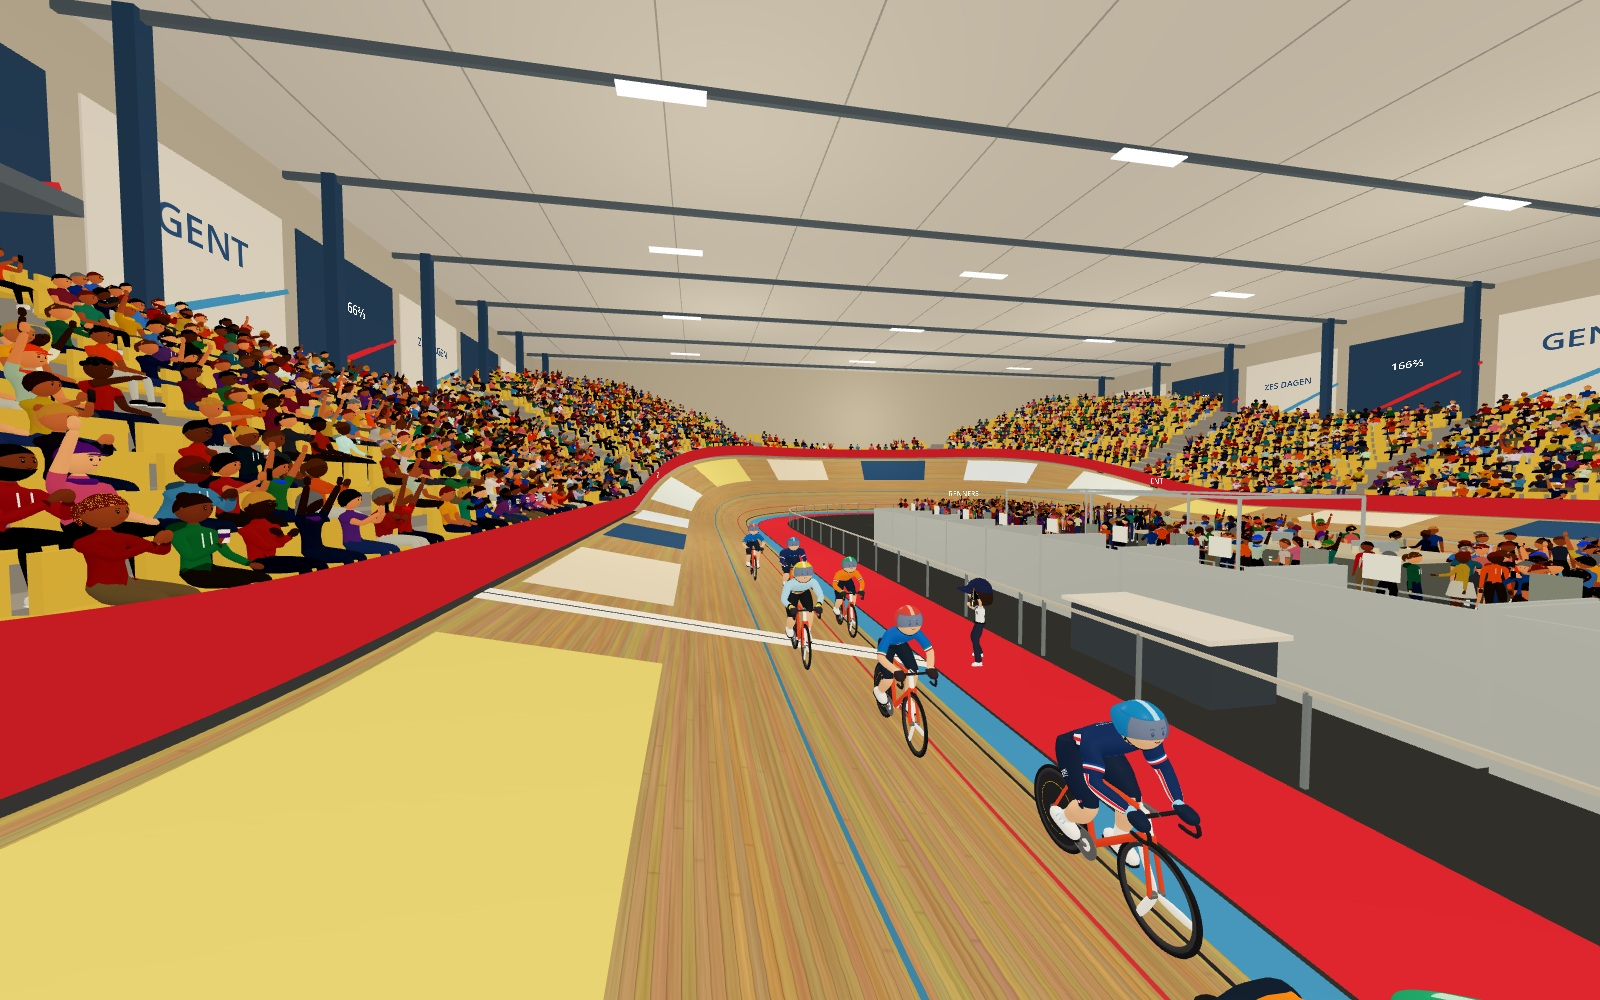
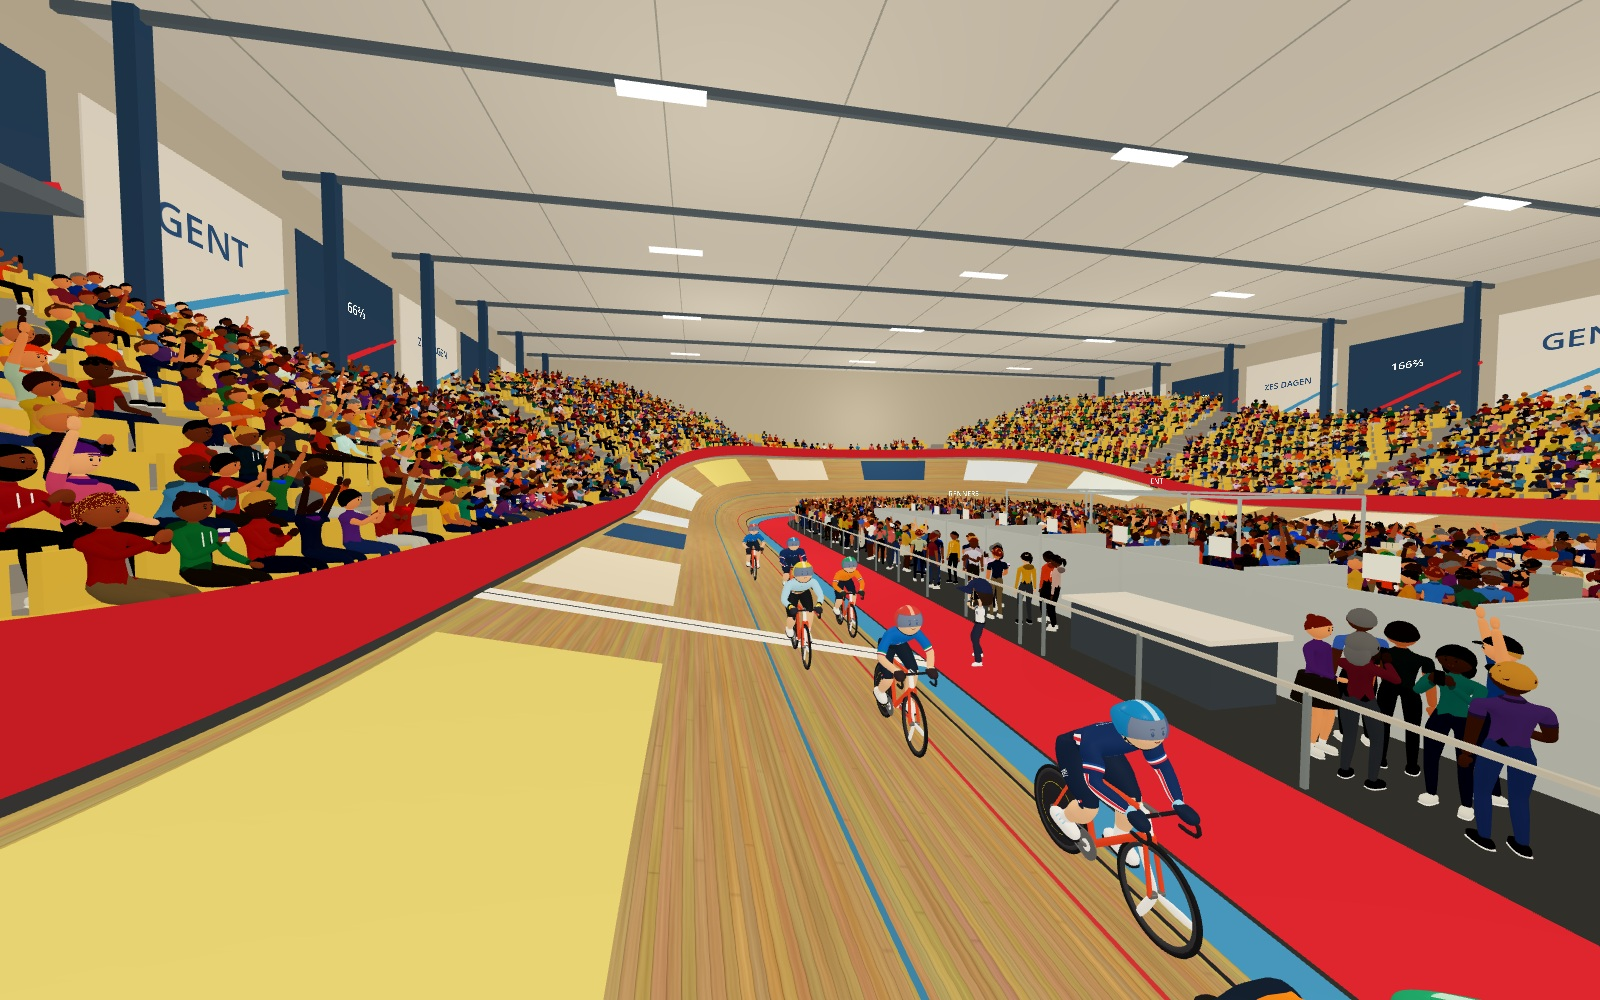
Fill Gent infield with crowd, staffed bars and hospitality areas

Changed region(s): [[0.5, 0.496, 1.0, 0.868], [0.0312, 0.465, 0.1562, 0.589]]

diff --git a/docs/venues/gent/VALIDATIE.md b/docs/venues/gent/VALIDATIE.md
@@ -4,7 +4,7 @@
 
 | Controle | Resultaat |
 |---|---|
-| `test_gent_design.gd` | Geslaagd: nominale zesrondenbaan, gesloten lus, 7 m oppervlakbreedte, 52° banking, productiecoördinaten op Vélodrome, twaalf eigen cabines, eigen hal/publiek, gedeelde acteurs |
+| `test_gent_design.gd` | Geslaagd: nominale zesrondenbaan, gesloten lus, 7 m oppervlakbreedte, 52° banking, productiecoördinaten op Vélodrome, twaalf eigen cabines, eigen hal/publiek, gedeelde acteurs; publieksdekking op de volledige binnencontour in normale en eenvoudige uitvoering, doorgangen en materiaalzones vrij |
 | `test_official_ready.gd` | Geslaagd: bestaande official behoudt zijn vier clips, props en resetgedrag na extractie naar gedeeld script |
 | `test_finish_line_race.gd` | Geslaagd: echte Vélodrome-puntenkoers met start, sprints, official en finish |
 | `test_graphics_settings.gd` | Geslaagd: bestaande Vélodrome-arena in beide grafische instellingen |
@@ -19,3 +19,5 @@ De navigatietest is ook met de echte renderer uitgevoerd: de headless dummy-rend
 De bestaande algemene test `test_menu_cleanup.gd` heeft twee mislukte assertions: terugnavigeren vanuit een historisch trainingsresultaat en een hardgecodeerde verwachting over de Strava-instructietekst. Exact die twee fouten zijn ook op de ongewijzigde `v0.4`-basis gereproduceerd. Deze niet aan Gent gerelateerde gedragingen zijn in deze wijziging niet aangepast.
 
 De actuele scène is een inrichting-/ontwerpweergave met demonstratierenners. De locatie is niet als wedstrijdlocatie geregistreerd; wedstrijdregels, records, omnium en training vragen nog de locatiebewuste migratie uit [de takenlijst](../taken.md).
+
+Na de middenpleincorrectie zijn vier nieuwe Godot-renders gemaakt en bekeken. De dekkingstest controleert dat toegankelijke publieksvloer overal binnen 2,1 m van een bezoeker ligt, ook in beide uiteinden en de voormalige lege aankomsthoek. Bij de standaarddichtheid: 1.344 publiekspersonen, eenvoudig: 596. De telling betreft het middenpleinpubliek; medewerkers en tribunes staan daar los van.

diff --git a/docs/venues/gent/GODOT.md b/docs/venues/gent/GODOT.md
@@ -23,9 +23,13 @@ Deze weergave is bedoeld om de inrichting te beoordelen. Renners rijden een demo
 - **Twaalf sobere rennercabines op de aankomsthelft van het middenplein (+X).** De bestaande negen nationale huisjes op de overzijde van Vélodrome worden niet gebruikt.
 - Lage grijze wanden, open banken, flesplanken, nummerbordjes, gordijnroeden met opzijgeschoven gordijnen en losse stoelen. Fietsen zijn afzonderlijk geplaatste gedeelde fietsmeshes.
 - Een aparte technische zone met eenvoudig metalen raamwerk, werkbanken en rollers; een afgeschermde doorgang voor de renners scheidt die helft van het publiek.
-- Een eigen centrale bar en nieuw verdeeld middenpleinpubliek, geen automatisch overgenomen tenten, mascottes, nationale boxbemanning of specifieke supporters.
+- Twee lange centrale bareilanden met tapplaatsen en personeel, statafels in beide uiteinden en publiek over de volledige bruikbare ovale vloer. De technische zone bevat eigen medewerkers. Smalle doorgangen naar de cabines en een dwarsverbinding blijven vrij.
 - De bestaande official met vier animaties/attributen is losgemaakt naar `venues/race_official.gd`. Zowel Vélodrome als Gent gebruiken die controller. Gent stelt zijn eigen rondelengte in.
 - De bestaande tv-box met beide presentatoren staat op een eigen platform bij de aankomsttribune, op ware grootte.
+
+## Correctie middenplein — 26 november 2026
+
+De grote lege zone is vervangen door een verdeling over de volledige binnencontour. Bij de standaarddichtheid telt het middenplein 1.344 publiekspersonen; de eenvoudige uitvoering 596, op dezelfde beschikbare vloer. De plaatsing houdt rekening met counters, statafels, rennercabines, technische apparatuur en doorgangen. Publiek wordt per sector met afstandsafhankelijke detailniveaus getekend. De controle scant ook de voormalige lege uiteinden en de hoek aan de aankomstzijde.
 
 ## Wat is zeker en wat blijft een interpretatie?
 
